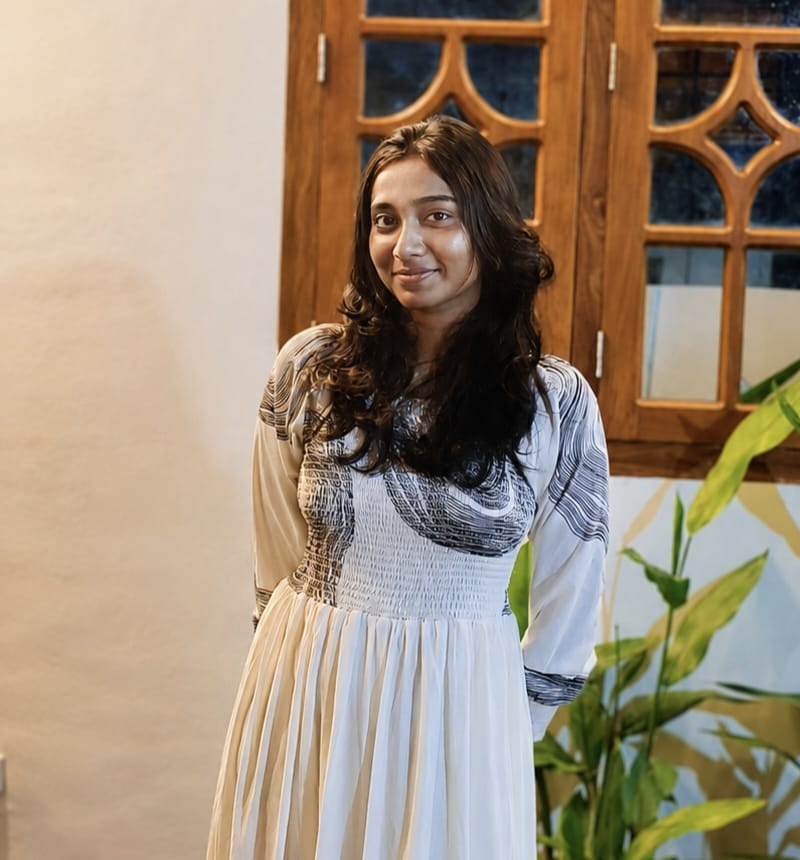
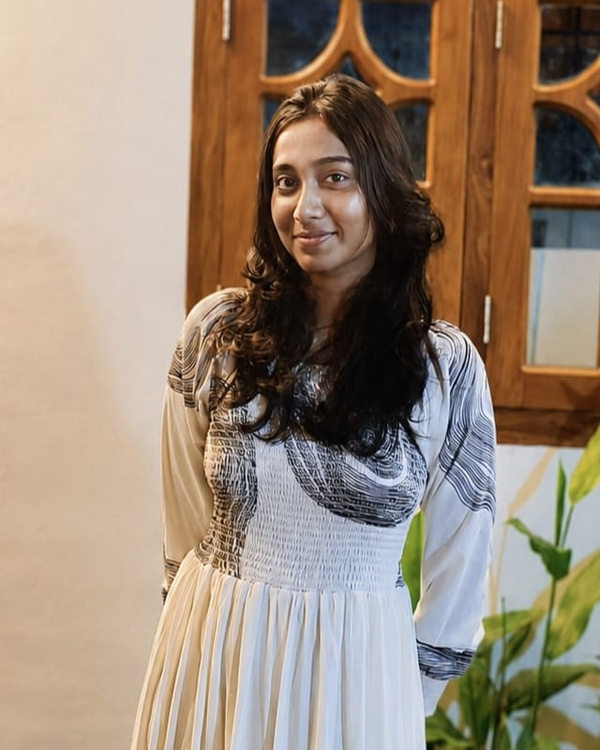
feat(perf): add Cache-Control headers, update Anna Rachel photo with tree bg, and anchor ContactUs footer to bottom

diff --git a/src/Components/ContactUs/ContactUs.jsx b/src/Components/ContactUs/ContactUs.jsx
@@ -119,16 +119,10 @@ function ContactUs() {
   };
 
   return (
-    <div
-      className={`contact-container bg-[#101011] flex flex-col min-h-screen ${
-        window.screen.width < 768 ? "space-y-32" : "space-y-12"
-      }`}
-      id="contact"
-    >
+    <div className="contact-container bg-[#101011] flex flex-col min-h-screen justify-between" id="contact">
       <Navbar />
-      
 
-      <div className="font-Armata ">
+      <div className="font-Armata flex-grow flex flex-col justify-center py-10">
         <div className="flex items-center md:hidden">
           <div className="flex items-center pl-8">
             <div className="inline-block w-5 h-16 bg-[#4f4f54] relative"></div>
@@ -324,12 +318,10 @@ function ContactUs() {
             </div>
           </div>
         </div>
-       
-        <Footer />
       </div>   
+      <Footer />
       <ToastContainer/> 
     </div>
-    
   );
 }
 
